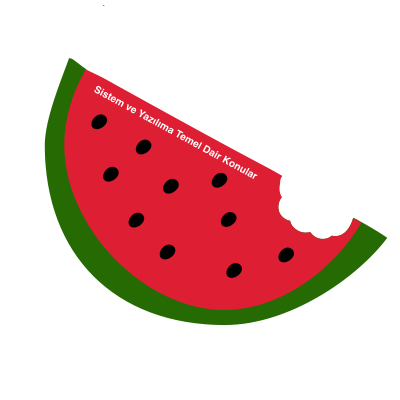
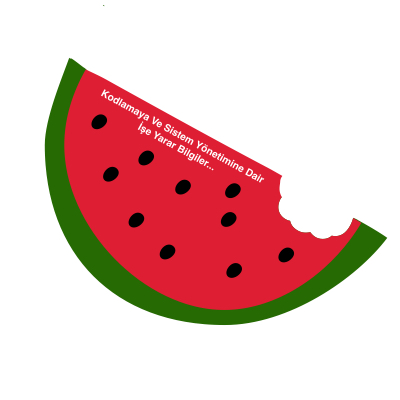
social_

diff --git a/src/pages/index.js b/src/pages/index.js
@@ -31,7 +31,7 @@ export default function Home() {
   return (
     <Layout
       title={`${siteConfig.title}`}
-      description="Sistem ve Yazılıma Dair Monular">
+      description="Kodlamaya Ve Sistem Yönetimine Dair İşe Yarar Bilgiler...">
       <HomepageHeader />
       <main>
         <HomepageFeatures />
